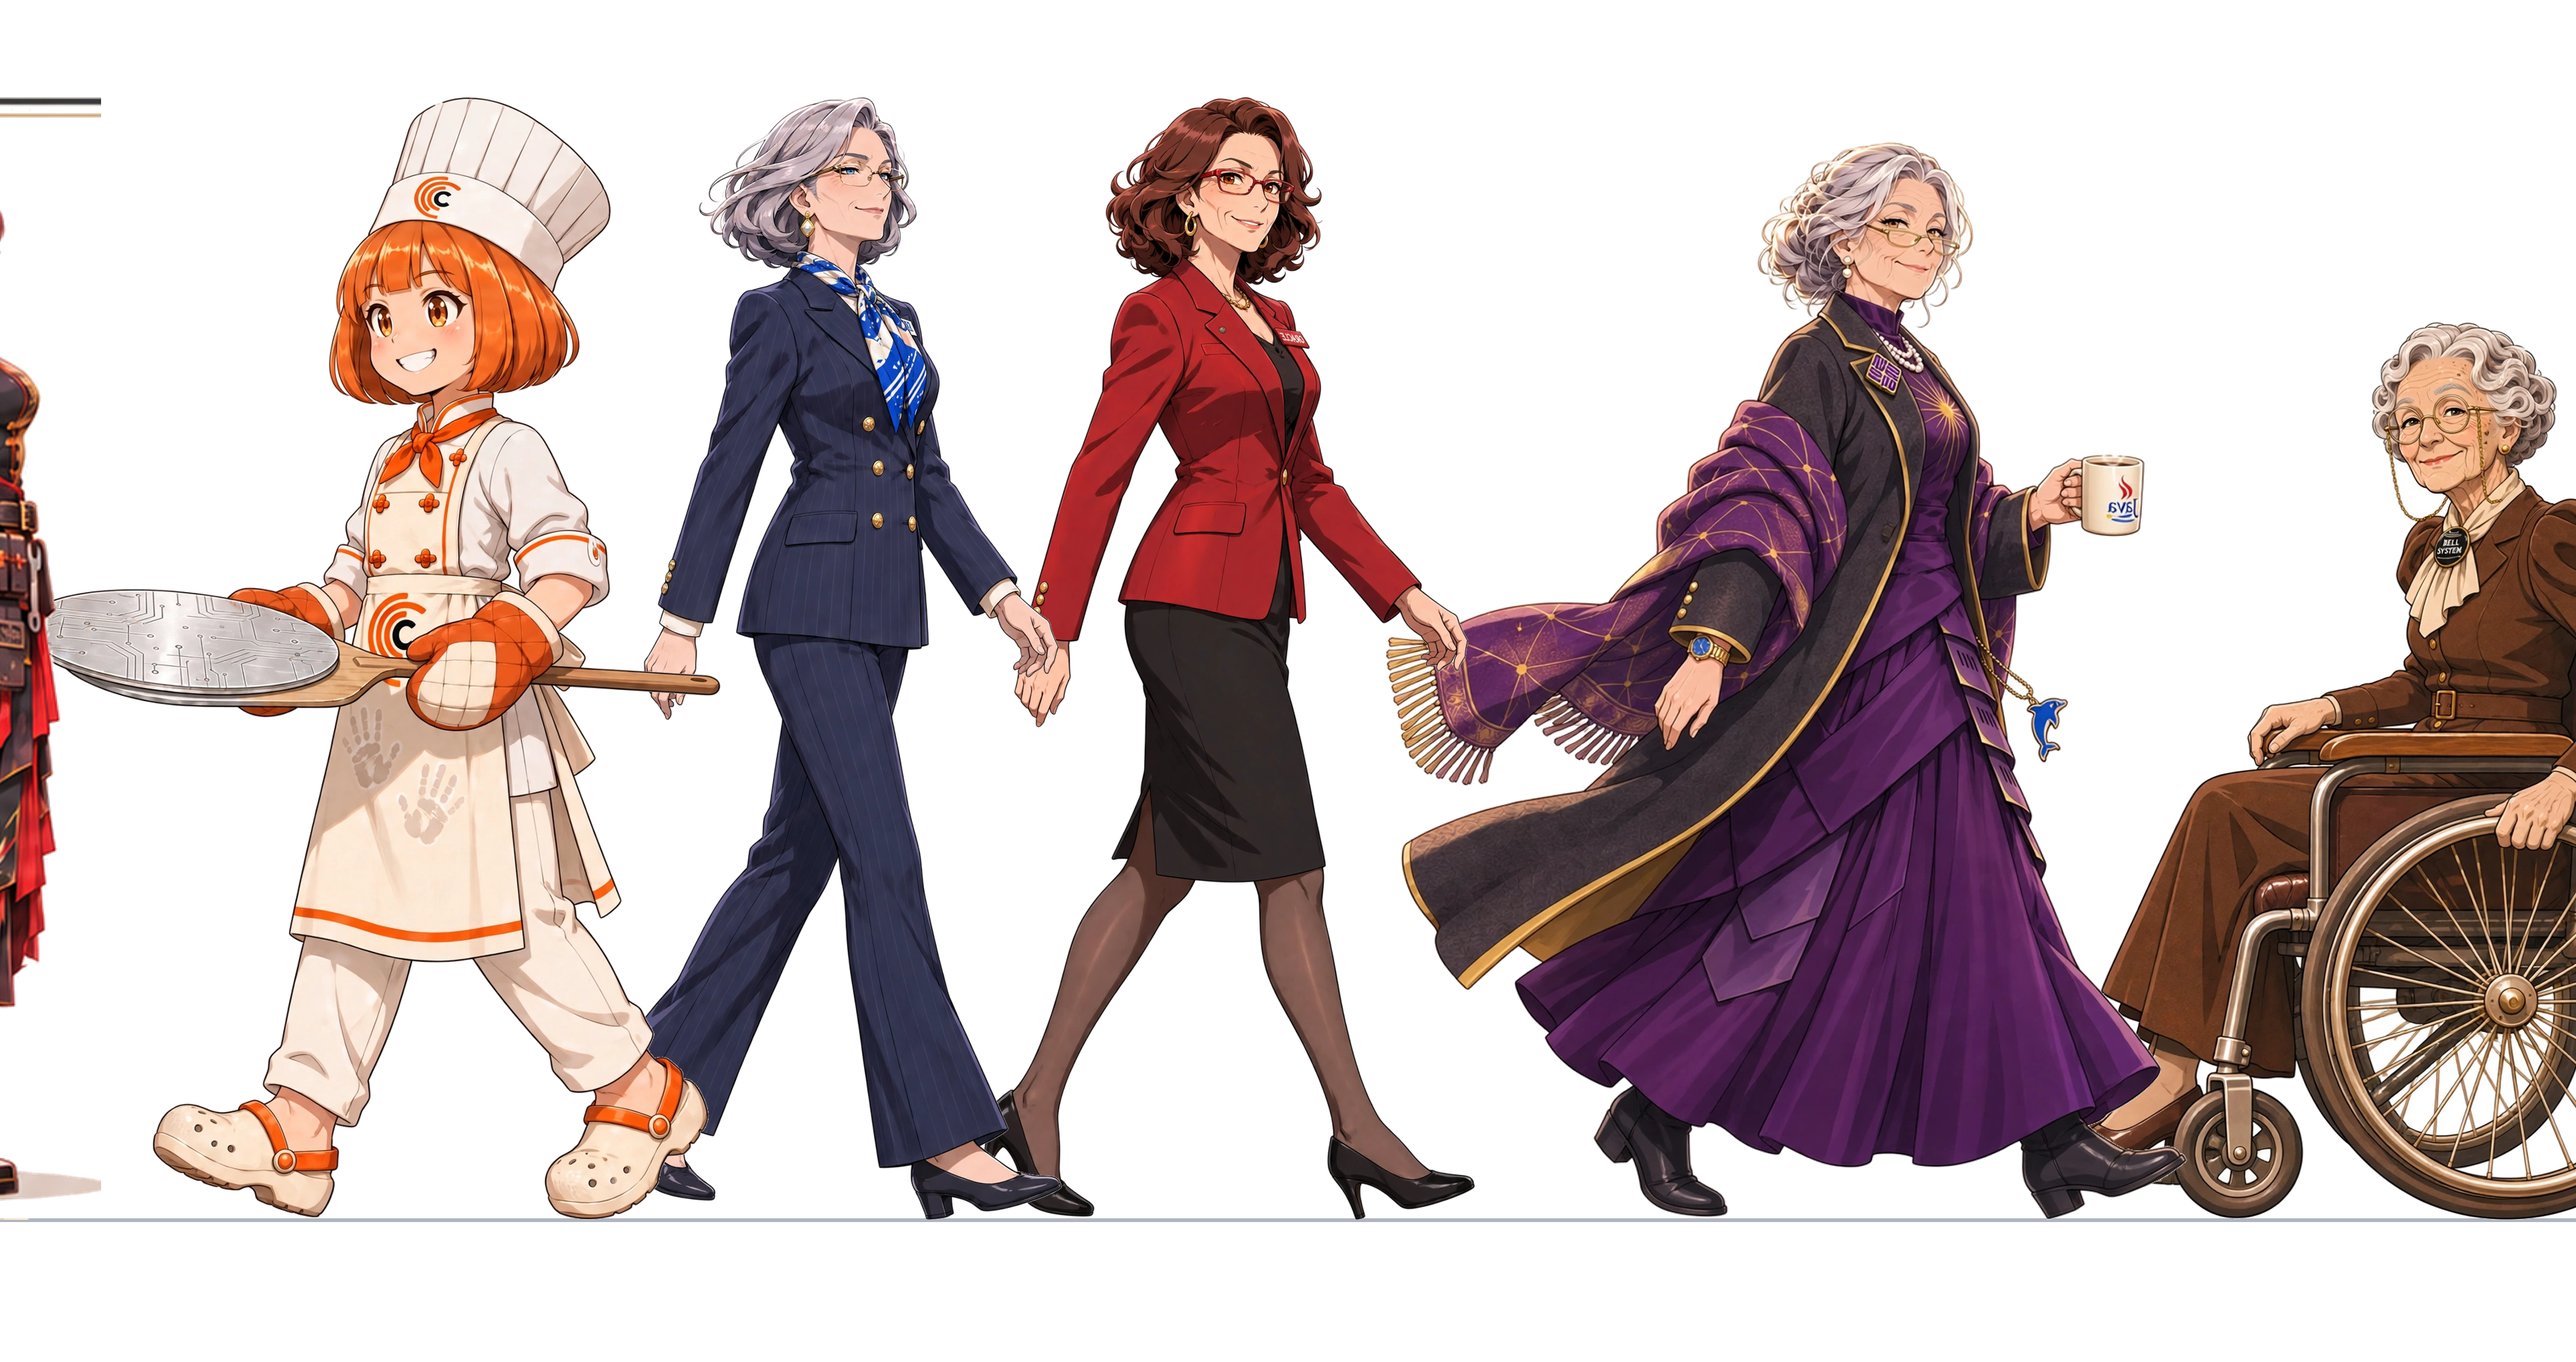
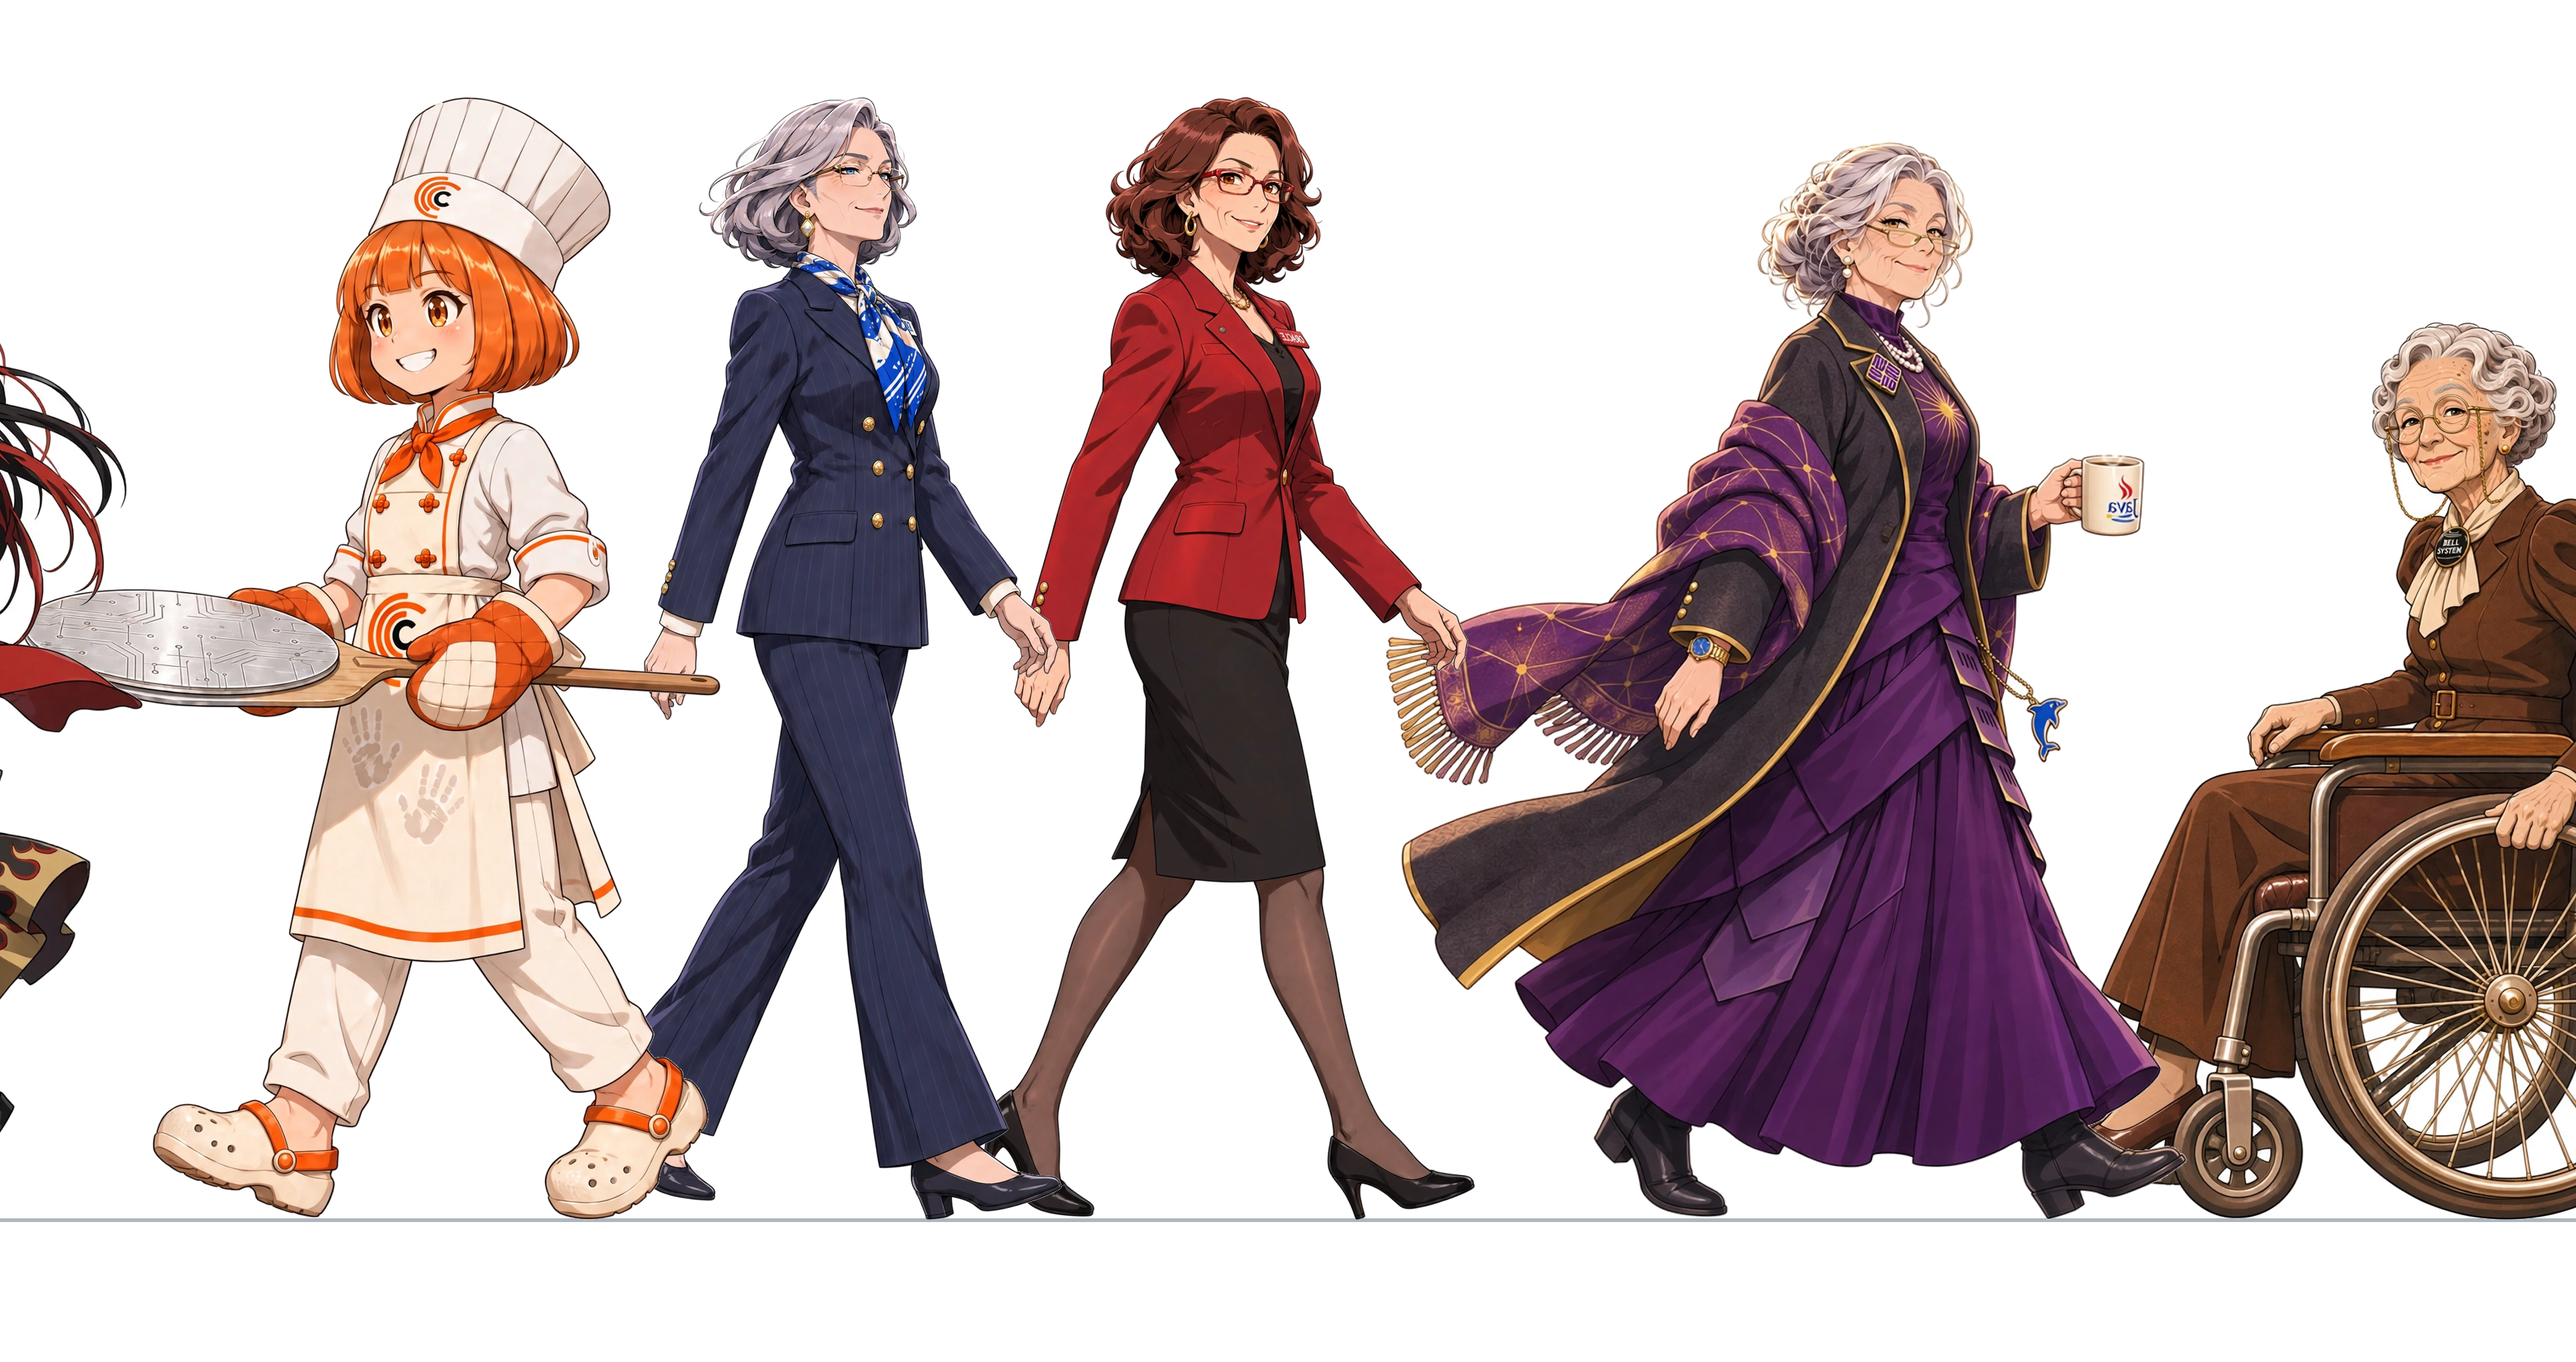
ED Walk: Intel and Huawei now march as real generated walkers
The standard walker prompt produced no image for Intel or Huawei.
Testing text combinations found the trigger was the prompt wording,
not the characters or the reference sheets: scrub the brand name and
explicitly require plain unmarked panels with no text, logo or
emblem, and all six combinations pass (full sheet reference,
text-only, cropped-figure reference x both characters).

Filed the full-sheet-reference generations as walkers/intel.png and
walkers/huawei.png — both true mid-stride, left-facing. Intel marches
logo-free and with her crown fully in frame; Huawei keeps the gold
dragon, flame hem and belt tablet, without the shoulder logo.
SHEET_CROPS stand-ins removed from tools/build_ed_walk.py; cutouts
and panorama rebuilt (20659x1820).

diff --git a/tools/build_ed_walk.py b/tools/build_ed_walk.py
@@ -14,8 +14,13 @@ Pipeline (modular, per the parade-composition method):
   4. Outputs: ed-walk-full.png plus six posting slices cut at figure
      boundaries so X/Facebook carousels stitch seamlessly.
 
-Intel and Huawei would not generate as fresh walkers; their figures are the
-SIDE views cropped from their model sheets (boxes below), already in profile.
+Intel and Huawei initially produced no image with the standard walker
+prompt. The fix (found by testing text combinations): scrub the brand name
+from the prompt and explicitly require plain unmarked panels with no text,
+logo or emblem — with that wording, generation succeeds even with the full
+model sheet as reference. Their walkers in walkers/ are the full-sheet-
+reference, de-logoed-prompt generations. (Earlier builds used SIDE views
+cropped from their model sheets as stand-ins; SHEET_CROPS is kept empty.)
 
 Eleven generated walkers came out stepping toward frame right despite the
 left-facing brief; their walker and cutout files are stored mirror-flipped so
@@ -38,7 +43,7 @@ TOP_PAD = 130
 BOTTOM_PAD = 190
 STEP = 0.82
 
-SHEET_CROPS = {'intel': (1085, 55, 1405, 790), 'huawei': (1100, 8, 1395, 778)}
+SHEET_CROPS = {}  # was intel/huawei sheet side-views before the de-logoed prompts worked
 
 
 def cutout(im, flood_tol=34, lo=26, hi=105):

diff --git a/art/ed-walk/README.md b/art/ed-walk/README.md
@@ -15,7 +15,7 @@ than a single crowd generation, so no character's traits bleed into another's.
   X/Facebook carousels that stitch into the continuous parade:
   1 Intel–Apple · 2 Meta–Hugging Face · 3 Mistral–Micron ·
   4 SK hynix–Huawei · 5 Cerebras–Bell Labs · 6 Fairchild–Xerox PARC.
-- `walkers/` — the 30 solo walking figures as generated (plain white
+- `walkers/` — the 32 solo walking figures as generated (plain white
   background), one per character, each from her own model sheet.
 - `cutouts/` — the 32 transparent figures used in the composite.
 - Rebuild or adjust with `tools/build_ed_walk.py`.
@@ -34,14 +34,18 @@ than a single crowd generation, so no character's traits bleed into another's.
 
 ## Recorded notes
 
-- Intel and Huawei are the two figures NOT freshly generated: their walker
-  generations produced no image on repeated attempts, so their parade figures
-  are the SIDE views cropped from their own model sheets — true profiles,
-  static stance instead of mid-stride. Regenerate-and-swap is a one-line
-  change in `tools/build_ed_walk.py` whenever a fresh walker succeeds.
+- Intel and Huawei initially produced no image with the standard walker
+  prompt. A text-combination test found the fix: scrub the brand name from
+  the prompt and explicitly require plain unmarked panels with no text,
+  logo or emblem — all six tested combinations (full sheet reference /
+  text-only / cropped-figure reference, for both characters) then succeeded.
+  Their filed walkers are the full-sheet-reference generations from that
+  test, so Intel marches without her skirt logo and Huawei without her
+  shoulder-armor logo, by design. (Earlier builds used SIDE views cropped
+  from their model sheets as stand-ins.)
 - Anthropic keeps her painted contact shadow (part of her generated ground
-  shadow), visible against the dark backdrop. ASML's walker source also has a
-  painted contact shadow under her feet.
+  shadow). ASML's walker source also has a painted contact shadow under
+  her feet.
 - AMD's walker re-styles her jacket off-shoulder with a crop top (a take
   Horace saw in the proof of concept).
 - Direction pass: eleven generated walkers came out stepping toward frame
